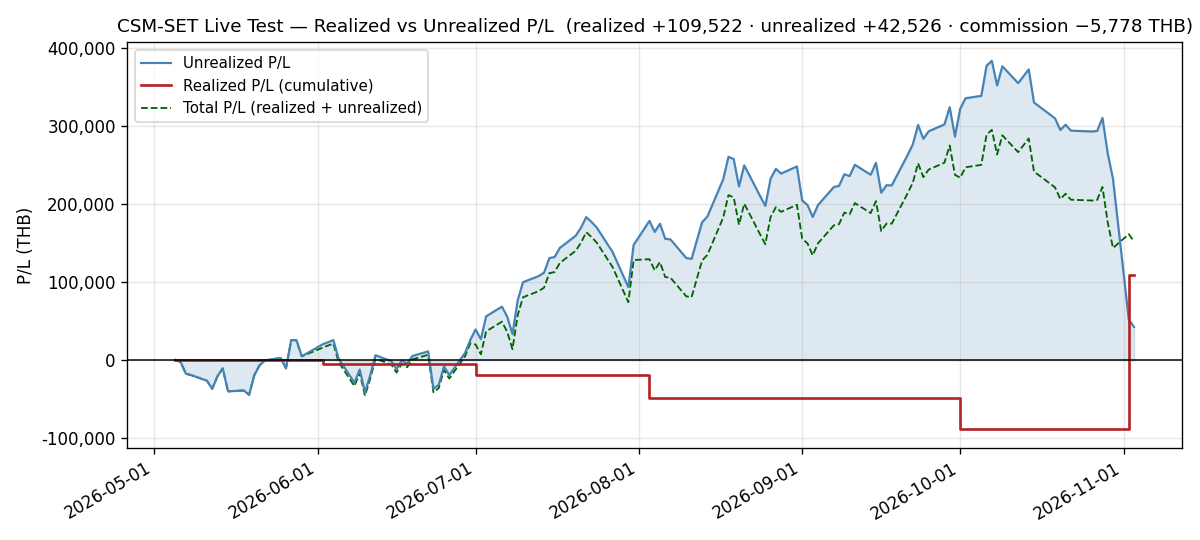
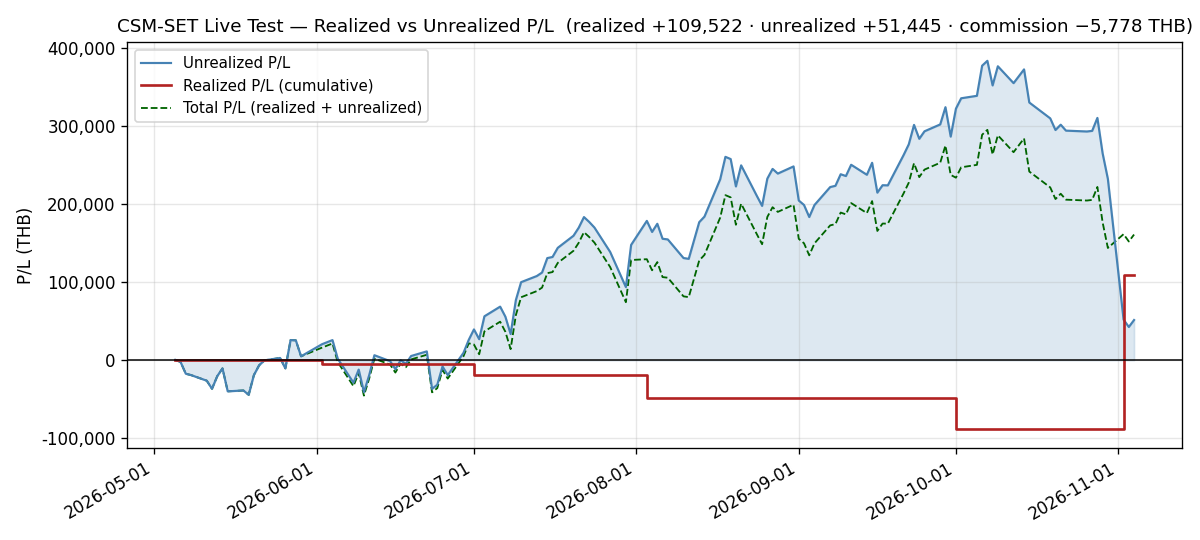
docs(live-test): add the 2026-11-04 daily log — scored session 3 of 41, NAV +0.7020%; the 18:00 refresh hung and the receipt is a same-evening rerun on the settfex 0.26.3 image
NAV 1,279,356.32 (+8,919.00, +0.7020%), +1.3625% on NAV0; equals
daily_performance to the satang. 8 up / 1 down / 1 flat: GUNKUL +7.11%
(best since 2026-06-25); HANA, KCE and SMT recovered +4,775.00 of the
−7,250.00 they lost on 2026-11-03.

- Breaker: TRIPPED, rolling drawdown −9.4891% (from −10.1201%); recovery
  needs > −5% (NAV 1,342,809.70, 63,453.38 away). Regime BEAR, third session;
  the SET rose +0.7431%, ending six falls.
- Refresh: the 18:00 firing hung in its universe retries (ROJNA and SAMART
  never returned; no timeout fired). The operator chose in session to run
  the approved upgrade first; its restart ended the job, and a manual rerun
  on the new image (job 01M6K82G3D7352DVRVFDNEZY4E) completed 211/0 with all
  201 universe symbols. That counts as complete under registration §6 #5.
  Filed as TK-0657.
- Infra (planned maintenance, approved 2026-11-04 ~11:13 BKK): settfex
  0.15.1 -> 0.26.3 (3297317), image db0cb596918c. Gate: Python and the OS list
  unchanged, settfex the only package moved. The first holiday poll on the
  new image did not bank.
- Execution note: CLOSED by the operator's 2026-11-04 ruling (registration
  §12); the 2026-11-03 log's "OPEN" is superseded. Holiday finding routed as
  #461.
- pnl.csv +1 row (124); only the P/L PNG regenerated (102346f1 -> 83a715d8);
  residual 1,610.53 unchanged.

Checker 205/0, recomputing every figure from source (YAML, panel, DB, tvkit,
[…]

diff --git a/docs/live-test/daily/2026-11-04.md b/docs/live-test/daily/2026-11-04.md
@@ -1,0 +1,282 @@
+# Daily Log — 2026-11-04 (Wednesday)
+
+**As of:** 2026-11-04, Asia/Bangkok
+**Phase:** D — Final Evaluation & Documentation
+**Day:** 125 / 38 trading days remaining in 2026
+**Status:** 🟢 **SCORED — session 3 of 41 in the registered window** (`reports/2026-10-27-forward-scoring-pre-registration.md`). **NAV closes at 1,279,356.32 THB, +8,919.00 (+0.7020%) on the session and +1.3625% on NAV₀ = 1,262,159.89.** **8 names rose, 1 fell, 1 was flat**; GUNKUL's +7.11% was its best session since 2026-06-25. 🔴 **The circuit breaker stays TRIPPED**, its rolling drawdown back inside −10% at **−9.4891%** but short of the −5% recovery line. 🔴 **The regime stays BEAR**; the SET rose +0.7431%, ending six falls in a row. 🔴 **The 18:00 refresh hung, and this session's receipt comes from a same-evening rerun** on a new image (Risk Notes 6 and 7). Total Return on NAV is **+14.23%**.
+
+---
+
+## Execution Summary
+
+**No trades today.** The book is the one recorded from the 2026-11-02 rotation (`configs/live_portfolio.yaml` at `2f846b0`), unchanged since. Realized P/L for the session is **0.00 THB** and no commission was paid. **The breaker's safe mode acts only at a month-end evaluation**, so equity at 19.6332% of NAV creates no trade. The next evaluation is **2026-11-30** (registration §3).
+
+---
+
+## Portfolio Snapshot
+
+> 🟢 **Every figure in this section is SCORED-WINDOW data, session 3.** It is `configs/live_portfolio.yaml` at `2f846b0` repriced against the 2026-11-04 bar of `data/processed/prices_latest.parquet`, and it **equals** the `db_gateway.daily_performance` row the same-evening rerun wrote.
+
+`Avg Cost` is the commission-inclusive per-share basis carried from `configs/live_portfolio.yaml` (4-decimal precision); `Cost Basis = shares × Avg Cost`, and `U.PL % = MV / Cost Basis − 1`.
+
+| # | Symbol | Shares | Avg Cost | Last Price | Market Value (THB) | Cost Basis (THB) | U.PL % |
+|---|--------|-------:|---------:|-----------:|--------------------:|-----------------:|-------:|
+| 1 | IRPC | 11,300 | 2.3037 | 2.60 | 29,380.00 | 26,031.81 | +12.86% |
+| 2 | HANA | 600 | 35.8070 | 44.25 | 26,550.00 | 21,484.20 | +23.58% |
+| 3 | GUNKUL | 6,100 | 2.9246 | 4.82 | 29,402.00 | 17,840.06 | +64.81% |
+| 4 | INSET | 8,400 | 3.0848 | 4.50 | 37,800.00 | 25,912.32 | +45.88% |
+| 5 | KCE | 500 | 39.0655 | 70.25 | 35,125.00 | 19,532.75 | +79.83% |
+| 6 | EPG | 3,400 | 5.9099 | 6.00 | 20,400.00 | 20,093.66 | +1.52% |
+| 7 | SMT | 4,000 | 5.8097 | 7.20 | 28,800.00 | 23,238.80 | +23.93% |
+| 8 | CNT | 3,600 | 3.3456 | 3.12 | 11,232.00 | 12,044.16 | −6.74% |
+| 9 | SPRC | 1,200 | 13.8232 | 13.60 | 16,320.00 | 16,587.84 | −1.61% |
+| 10 | SSP | 2,200 | 7.7129 | 7.35 | 16,170.00 | 16,968.38 | −4.71% |
+
+### Portfolio summary
+
+| Metric | Value |
+|--------|-------|
+| Total Cost Basis | 199,733.98 THB |
+| Total Market Value | 251,179.00 THB |
+| Unrealized P/L | +51,445.02 THB (+25.76%) |
+| Realized P/L (today) | 0.00 THB |
+| Realized P/L (cumulative, since inception) | **+109,521.83 THB** |
+| Commission paid (cumulative) | **−5,777.54 THB** |
+
+### Account summary
+
+| Metric | Value |
+|--------|-------|
+| Remaining Cash | 1,028,177.32 THB |
+| Total NAV | 1,279,356.32 THB |
+| Total Return on NAV | +14.23% |
+
+> **Cost-basis note:** Total Cost Basis is **199,733.98 THB**, equal to Σ per-symbol `shares × avg_cost` with a **0.00** delta, unchanged since the rotation.
+>
+> **Above/below cost: 7 up / 3 down.** **EPG** is back above cost (+1.52%). **SPRC** (−1.61%), **SSP** (−4.71%) and **CNT** (−6.74%) are below.
+>
+> **Equity is 19.6332% of NAV** (251,179.00 of 1,279,356.32), up from 19.0690% as the stocks rose. The breaker acts only at the month-end evaluation.
+>
+> **Total P/L check:** realized + unrealized = 109,521.83 + 51,445.02 = **+160,966.85 THB**, up from +152,047.85 by **8,919.00**, exactly the session's NAV change.
+
+---
+
+## Day-over-Day Change (vs Tuesday November 3)
+
+| Symbol | Nov 3 Close | Nov 4 Close | Change | Change % | MV Contribution (THB) |
+|--------|------------:|------------:|-------:|---------:|----------------------:|
+| GUNKUL | 4.50 | 4.82 | +0.32 | +7.11% | +1,952.00 |
+| HANA | 41.75 | 44.25 | +2.50 | +5.99% | +1,500.00 |
+| KCE | 66.50 | 70.25 | +3.75 | +5.64% | +1,875.00 |
+| SMT | 6.85 | 7.20 | +0.35 | +5.11% | +1,400.00 |
+| INSET | 4.30 | 4.50 | +0.20 | +4.65% | +1,680.00 |
+| CNT | 3.00 | 3.12 | +0.12 | +4.00% | +432.00 |
+| EPG | 5.90 | 6.00 | +0.10 | +1.69% | +340.00 |
+| SSP | 7.25 | 7.35 | +0.10 | +1.38% | +220.00 |
+| IRPC | 2.60 | 2.60 | 0.00 | 0.00% | 0.00 |
+| SPRC | 14.00 | 13.60 | -0.40 | -2.86% | -480.00 |
+| **Total** | | | | **+3.68%** | **+8,919.00** |
+
+**Breadth: 8 up, 1 down, 1 flat.**
+
+> The `Change %` on the Total row is the **market-value** change (+8,919.00 / 242,260.00 = +3.6816%), not the NAV change (+8,919.00 / 1,270,437.32 = +0.7020%). They differ by the cash in the NAV denominator, 80.93% of the prior session's NAV in safe mode.
+
+**Most of the 2026-11-03 fall came back.**
+
+- **GUNKUL +7.11% (+1,952.00)** was the largest contribution and its best session since 2026-06-25.
+- **The three ETRON names recovered +4,775.00 of the −7,250.00 they lost on 2026-11-03:**
+  - HANA +5.99%, its best session since 2026-08-17;
+  - KCE +5.64%, its best since 2026-09-29;
+  - SMT +5.11%, its best since 2026-10-06.
+- **SPRC was the only faller** (−2.86%, −480.00), and it is now below cost.
+- **The book rose +0.7020% against a SET that rose +0.7431%**, a **−0.0411pp** difference. It is a same-session arithmetic result for a book that is 80.37% cash, not a performance comparison (Market Context).
+
+---
+
+## Market Context
+
+| Indicator | Value | Source |
+|-----------|-------|--------|
+| SET Index | 1,502.09 | tvkit (TradingView) |
+| SET Open / High / Low | 1,484.00 / 1,504.05 / 1,470.06 | tvkit |
+| SET 200-day SMA | 1,516.2556 | tvkit (TradingView) |
+| Regime Estimate | BEAR | SET −0.93% below SMA200 |
+
+> ⚠ **This is context, NOT a benchmark comparison, and it must not be read as one.**
+>
+> - **Different price bases.** `SET:SET` is a **price index**; the strategy series above is priced on **dividend-adjusted** bars (since `e04a292`, 2026-08-09). The difference is one-sided in the strategy's favour, and it is not small: measured 2026-09-11 over 2024-03-19 → 2026-09-10, the dividend adjustment is worth **+12.09 percentage points** on this universe, roughly **+4.8%/yr**.
+> - **No alpha, excess return or outperformance figure is computed anywhere in this log.** The registration's tracking error against this index is reported in Risk Note 1 as a risk metric (§5).
+
+---
+
+## Regime State
+
+- **Detected regime:** 🔴 **BEAR**, the third session. SET (1,502.09) is **below** SMA200 (1,516.2556) by −0.9342%.
+- **SMA200 position:** 1,516.2556, with the SET closing 14.17 points under it.
+- **3-month return:** −6.01% (window-sensitive — see Notes).
+- **The engine's own `RegimeDetector.detect()` also returns BEAR**: price below SMA200, and a 63-session return of **−7.11%** against its −5% threshold.
+- **No regime-driven action under the registration.** The regime filter is not one of the registered rules (§4). The SET closed −4.02% below its own EMA100 and −0.82% below its EMA200; both are reported and not applied.
+
+**The last six closes read 1,566.10 → 1,544.60 → 1,518.59 → 1,507.20 → 1,491.01 → 1,502.09.**
+
+- **Today:** a **+11.08 point, +0.7431%** session, the first rise after six falls.
+- **Range:** **33.99 points**, against 18.04 the prior session. The index opened at 1,484.00, fell to 1,470.06, and closed 32.03 above its low.
+- **Cushion rose −1.5932% → −0.9342%, a +0.6590pp step.** SMA200 rose to **1,516.2556** (+1.1063).
+- **A BEAR→BULL crossing needs the index 14.17 points higher**, +0.94% at today's SMA200.
+
+The 3-month figure moved from −8.22% to −6.01%, its start bar moving from 2026-07-27 (1,624.47) to 2026-07-30 (1,598.11).
+
+---
+
+## Sector Concentration
+
+Groupings are SET-official, as on 2026-11-02. The book is held at about 20% equity by the breaker's safe mode.
+
+| Sector | Market Value (THB) | % of NAV | % of stocks held | Limit (NAV) | Status |
+|--------|--------------------:|---------:|-----------------:|-------------|--------|
+| Energy & Utilities (ENERG) | 91,272 | 7.1342% | 36.3374% | 35% | OK on NAV |
+| Electronic Components (ETRON) | 90,475 | 7.0719% | 36.0201% | 35% | OK on NAV |
+| ICT | 37,800 | 2.9546% | 15.0490% | 35% | OK |
+| Construction Materials (CONMAT) | 20,400 | 1.5946% | 8.1217% | 35% | OK |
+| Construction Services (CONS) | 11,232 | 0.8779% | 4.4717% | — | below the 5% floor by ruling I5 |
+
+- **ENERG still leads at 7.1342% of NAV** (+0.0831pp). **ETRON rose +0.3262pp to 7.0719%** on its three names' gains. ICT +0.1115pp, CONMAT +0.0156pp, CONS +0.0278pp.
+- **The 35% cap is measured on NAV** (I2), and no sector is near it.
+- **As a share of the stocks held, ENERG is 36.34% and ETRON 36.02%.** The two hold 72.36% of the equity sleeve between them. This is recorded for context; it is not the registered measure.
+- **Every position is below the 5% floor**, between 0.8779% (CNT) and 2.9546% (INSET) of NAV. The breaker governs the band (I5), so **these are not deviations**.
+
+---
+
+## Risk Notes
+
+1. 🟢 **SCORED SESSION 3 OF 41.**
+
+   | Measure (registration §5) | Value |
+   |---|---|
+   | NAV₀ (2026-10-30 close) | 1,262,159.89 |
+   | NAV₂ (2026-11-03 close) | 1,270,437.32 |
+   | NAV₃ (2026-11-04 close) | 1,279,356.32 |
+   | r₃ = NAV₃ / NAV₂ − 1 | **+0.7020%** |
+   | Window return to date | **+1.3625%** |
+   | Max drawdown to date (running peak from NAV₀) | **−0.7349%** (2026-11-03, from the 2026-11-02 peak) |
+   | Annualized volatility (n = 3) | 17.29% |
+   | Sharpe, rf = 2% (n = 3) · rf = 0 | 6.53 · 6.65 |
+   | Tracking error vs `SET:SET` (n = 3) | 18.60% |
+
+   **Three returns carry almost no information**, and annualizing them magnifies that. **No criterion is graded before the window ends** (2026-12-30), and §9's power statement applies to every figure here.
+2. 🟢 **`daily_performance` equals this log.** The row reads **1,279,356.32, cash 1,028,177.32**, and `equity_curve` agrees.
+   - `daily_return` (+0.7020%) equals the day-over-day change to within 3×10⁻¹⁹.
+   - `cumulative_return` reads −0.0381% and `combined_drawdown` −0.7349%: both are measured from `entry_date` 2026-11-02. They are not the scored series (§5).
+3. 🔴 **CIRCUIT BREAKER — TRIPPED, threaded one session (I4).**
+   - **Procedure:** `DrawdownCircuitBreaker` with the recorded parameters (60 sessions, −10% trip, −5% recovery held 21 sessions), called with the state carried from 2026-11-03 (TRIPPED, recovery progress 0) on the published NAV series. It returns **TRIPPED**, rolling drawdown **−9.4891%**, equity fraction **0.20**, no transition.
+   - **The drawdown is back inside −10%**, from −10.1201% on 2026-11-03. **Recovery needs it above −5%**, so the state does not move.
+   - The 2026-10-07 peak (1,413,483.89) is still the window's high.
+   - **Recovery** starts when the rolling drawdown rises above −5%, at NAV **1,342,809.70**. That is **63,453.38 (+4.9598%)** above today's NAV. From a book 19.63% in stocks, it needs the equity sleeve to rise about **25.26%**.
+   - **The 1,064,000 THB line** (5% below `starting_nav`) has NAV **+215,356.32** (16.83%) above it. Under the registration it is a reporting line and carries no action.
+4. 🔴 **REGIME — BEAR, the third session** (Regime State). Under the registration it changes nothing. The transition is recorded in `events/2026-11-02-regime-transition-bull-to-bear.md`.
+5. 🟢 **EXECUTION — CLOSED by operator ruling, 2026-11-04.**
+   - **The ruling:** *"This is a live test in which I place every order myself. Close this matter. The strategy only waits for my price updates."* (The operator's words, translated from Thai.)
+   - **What it settles:**
+     - the operator places every order by hand (limit orders to date);
+     - the trade summaries match the recorded prices;
+     - no deviation is counted.
+   - **Where it is recorded:** a dated amendment to registration §4 *Fills* (registration §12), and `docs/live-test/events/2026-11-03-rotation-orders-placed-as-limit-orders.md`, now CLOSED.
+   - **The 2026-11-03 log's "OPEN with the operator" is superseded by this ruling.** That log stays as published.
+6. 🔴 **REFRESH — the 18:00 firing hung; this session's receipt is a same-evening rerun.**
+   - **The firing started on time** (11:00:00Z) on image `73a1ace1eaee`. The held phase completed `requested=10 recovered=10 still_failing=0` at 11:00:13Z.
+   - **The universe phase stalled on its retries:**
+     - attempt 1 recovered 195 of 201 (11:03:23Z);
+     - attempt 2 recovered 1 of 6 (11:05:29Z);
+     - attempt 3 reported SAWAD and SAK failed (11:08:22Z–11:08:23Z), SC failed after a dropped connection at 11:58:42Z, and ROJNA and SAMART never returned.
+   - **The job never completed.** Nothing logged a timeout for ROJNA or SAMART, and three HTTPS connections stayed open. A run that never ends would also have blocked the 2026-11-05 firing, because the job allows one instance at a time. [[TK-0657]]
+   - **The operator chose, in session, to run the approved upgrade first** (Risk Note 7). Its restart at 19:19:26 BKK ended the stuck job.
+   - **A manual `POST /api/v1/scheduler/run/daily_refresh` then ran on the new image:** job `01M6K82G3D7352DVRVFDNEZY4E`, 19:20:50 → 19:22:52 BKK. All 201 universe symbols were recovered on attempt 1, including the six that had failed at 18:00.
+   - **Under registration §6 #5 the session is complete:** a rerun the same evening counts, and its receipt has `held_symbols_failed = 0` and `index_fetched = true`.
+7. 🟢 **INFRA — settfex 0.15.1 → 0.26.3 and an image rebuild, as planned maintenance.** The operator approved it in session at about 11:13 BKK on 2026-11-04, before it began. The plan was to run it after this log; because of the hang, the operator moved it ahead (Risk Note 6).
+
+   | Step | Result |
+   |---|---|
+   | Preparation (2026-11-04, throwaway worktree, no `.env`) | lock-only change (settfex alone; 196 packages resolved); suite 1334 passed / 35 skipped; mypy strict and ruff clean |
+   | Lock commit | `3297317`, Security CI success |
+   | Rollback tag | `csm-set-csm:rollback-20261104` → `73a1ace1eaee` |
+   | Build (`--pull`, default builder) | image `db0cb596918c`, built 2026-11-04 19:16:09 BKK |
+   | Gate (`--network none`) | Python 3.11.18 unchanged; of 111 packages only settfex moved, 0.15.1 → 0.26.3; the 109-entry OS package list identical; the settfex imports csm-set uses load offline |
+   | Deploy (private overlay) | container `Created` 2026-11-04T12:19:26Z, `StartedAt` 12:19:29Z, healthy; scheduler started with its two jobs; 0 ERROR or CRITICAL lines |
+
+   - **The first holiday poll on the new image ran** (19:20:14–19:20:16 BKK) **but did not bank.** The calendar cache kept its 18:55:15 BKK stamp, and failed polls log only at debug level.
+8. 🟢 **Bands, by ruling.** The 35% cap is measured on NAV, where ENERG leads at 7.1342% (I2). Every position is below the 5% floor (I5). [[TK-0279]]
+9. 🟢 **The uncredited dividend total holds at 8,927.00 THB**: KCE 1,560.00, INSET 2,100.00, MGC 2,208.00, FORTH 795.00, IRPC 2,264.00.
+   - That is **0.70% of NAV** and **5.55%** of the +160,966.85 total P/L.
+   - The registration reports dividends beside each score and does not credit them (§8).
+10. ⚠ **DOC — the `csm-set-daily-log` skill's `daily_return` guidance remains stale.** Its Step 3 still calls the field *"an open defect, not yet fixed in code"*; it was fixed 2026-09-02, and today's row shows it (Risk Note 2). **Thirty-ninth log to carry this.**
+11. 🟢 **The holiday-endpoint finding was routed to `session:pm` on 2026-11-04**, as issue #461. It shows that csm-set's poller reached the endpoint on every logged session through the period recorded as blocked.
+12. **Open decisions — answered for the scored window, by the registration's §8 and §12 and the 2026-10-31 rulings.**
+
+    | Decision | Registered for the window |
+    |---|---|
+    | EMA100 | per holding |
+    | Bands | bind at construction, on the names being traded; the breaker governs them in safe mode (I5) |
+    | Sector cap | measured on NAV, checked on the scaled book (I2) |
+    | Breaker state | advances every trading session (I4) |
+    | Price history | the published NAV, frozen at publication |
+    | Dividends | not credited, reported beside each score |
+    | Fill rule | the operator places every order by hand (amendment of 2026-11-04, registration §12) |
+
+---
+
+## Notes
+
+- **This session's refresh receipt is a same-evening rerun, not the scheduled firing** (Risk Note 6).
+  - Job `01M6K82G3D7352DVRVFDNEZY4E` (`data_refresh`), accepted 2026-11-04T12:20:50Z, finished 12:22:52Z, status `succeeded`.
+  - Receipt: `symbols_fetched=211, failures=0, duration_seconds=119.438, held_symbols_fetched=10, held_symbols_failed=0, retry_attempts_used=0, index_fetched=true`, corroborated by `results/.tmp/last_refresh.json`.
+  - The held phase ended `requested=10 recovered=10 still_failing=0` at 12:20:54Z, and the universe phase `requested=201 recovered=201 still_failing=0` at 12:22:32Z. The gateway accepted the daily report (`201`) at 12:22:52Z.
+  - **The scheduled 18:00 firing left no receipt**, so `last_refresh.json` kept the 2026-11-03 stamp until the rerun.
+  - The cron trigger is unchanged (Monday to Friday, 18:00), so the next firing is 2026-11-05 18:00 +07, the first scheduled one on the new image.
+- **The container now runs image `db0cb596918c`.**
+  - `Created` 2026-11-04T12:19:26Z, `StartedAt` 12:19:29Z, `RestartCount` 0. `FinishedAt` is unset (0001-01-01) because this container has never stopped.
+  - **The previous container (image `73a1ace1eaee`) ran from 2026-11-02T12:24:30Z until the planned recreate.** It ran the 2026-11-03 refresh and the stuck 2026-11-04 firing.
+  - The host has not rebooted since 2026-10-06 (`uptime -s` 2026-10-06 10:46:02).
+- **`SET:THCOM` was fetched with 600 bars again.**
+- **The price panel and the prior log agree on all ten names**, so **nothing was restated**.
+- **The panel's row count fell 906 → 905.** Every row still carries a 09:55 Bangkok stamp, the column count is unchanged at **211**, and no session date is duplicated.
+- **Row-integrity checks pass.** `db_csm_set.equity_curve` holds **exactly one row per trading day at `00:00:00+00`** (124 rows, 124 dates, none off midnight), and today's row equals `daily_performance.total_value`.
+- **`configs/live_portfolio.yaml` is unchanged** since `2f846b0`.
+- **The P/L identity holds.** `realized_cum + unrealized − (NAV − starting_nav)` = 109,521.83 + 51,445.02 − 159,356.32 = **1,610.53 THB**, unchanged.
+- **Every figure was verified rather than asserted.**
+  - Σ position market value equals Total Market Value exactly (251,179.00).
+  - **Total NAV (1,279,356.32) equals `db_gateway.daily_performance.total_value` to the satang**, and cash equals the YAML's 1,028,177.32.
+  - The contributions sum to the session's NAV change (+8,919.00) exactly.
+  - The sector table sums to Total Market Value exactly.
+  - Σ per-symbol cost basis matches Total Cost Basis with a **0.00** delta, and the position count is 10.
+  - All money arithmetic used `Decimal` with explicit half-up rounding, and so did SMA200.
+- **Realized P/L and commission ledger, unchanged.**
+  - Realized cumulative **+109,521.83 THB**: 2026-06-02 −4,351.87 · 2026-07-01 −14,964.06 · 2026-08-03 −29,775.45 · 2026-10-01 −39,365.29 · 2026-11-02 +197,978.50.
+  - Commission cumulative **−5,777.54 THB**: 05-05 1,611.15 · 06-02 984.44 · 06-04/05 169.09 · 07-01 287.83 · 08-03 682.65 · 10-01 201.81 · 11-02 1,840.57.
+- **Capital events to date, unchanged.** `starting_nav` 1,120,000 after 1,000,000 → 1,100,000 (2026-06-04, +100,000) → 1,120,000 (2026-08-03, +20,000).
+- **Every superlative was computed, and each names its window.**
+
+  | Claim | Window | Source |
+  |---|---|---|
+  | GUNKUL, HANA, KCE and SMT: best session since the dates named | the whole panel, which starts 2024-05-15 for these names | the panel |
+  | The breaker's drawdown path | the published NAV series | the 2026-11-03 log; the procedure |
+  | Index figures, the cushion, the end of the six falls | bars fetched back to 2024-09-11 | tvkit |
+- **3-month return figure is window-sensitive.** −6.01% is measured over the trailing 66 bars from today's close (start bar 2026-07-30, 1,598.11). The engine's 63-session figure is −7.11%. The regime estimate uses the SMA200 only.
+- **Follow-ups for the next session (Thursday 2026-11-05 18:00 +07).**
+
+  | | Item | Level |
+  |---|---|---|
+  | (a) | the breaker state, threaded once | TRIPPED; rolling drawdown −9.4891%; recovery above 1,342,809.70 |
+  | (b) | the regime | BEAR; 14.17 points to a BULL crossing |
+  | (c) | the first scheduled refresh on image `db0cb596918c` | record its receipt and container identity |
+  | (d) | whether the holiday poll banks on settfex 0.26.3 | the cache stamp |
+  | (e) | the hung firing | [[TK-0657]] |
+
+  **The four follow-ups from 2026-11-03 are closed above:**
+  - (a) Risk Note 3; (b) Risk Note 4;
+  - (c) the fill-rule decision, closed in Risk Note 5;
+  - (d) the settfex 0.26.3 upgrade, done in Risk Note 7.
+- **Calendar.** 2026-11-04 was a trading session.
+  - The rerun read the banked SET holiday calendar (`results/.tmp/set_holidays.json`) at `captured_at 2026-11-04T11:55:15Z`, written by the 18:55:15 BKK poll on the previous container.
+  - The banked calendar lists the remaining 2026 closures as **2026-12-07**, **2026-12-10** and **2026-12-31**. The next session is **2026-11-05**.
+  - No trading hours are stated anywhere in this log.
+- Data fetched via tvkit (TradingView, free tier): all 10 held-symbol prices from the same-evening rerun of the refresh; SET Index context anchored explicitly to the 2026-11-04 bar. ⚠ **The vendor back-adjusts a symbol's entire history on an ex-dividend date**, so any prior-session price quoted here is the vendor's *current* view of that session and not necessarily what was published at the time.

diff --git a/docs/live-test/graphs/README.md b/docs/live-test/graphs/README.md
@@ -1,9 +1,9 @@
 # Live-Test Charts — how these are generated
 
-_🟢 **The three NAV charts are on the October month-end, 2026-10-30; the P/L chart is newer, 2026-11-03.** The three **NAV** charts
+_🟢 **The three NAV charts are on the October month-end, 2026-10-30; the P/L chart is newer, 2026-11-04.** The three **NAV** charts
 (`equity_curve`, `drawdown`, `monthly_returns`) were regenerated on 2026-10-30 from `nav_actual.csv` /
 `nav_twr.csv` extended to **121 points** (2026-05-04 → 2026-10-30). `pnl_realized_unrealized.png` was
-regenerated on 2026-11-03 from `pnl.csv` (**123 rows**, through 2026-11-03; its newest realized step is the 2026-11-02 rotation's). ⚠ **The September rows of the two NAV CSVs
+regenerated on 2026-11-04 from `pnl.csv` (**124 rows**, through 2026-11-04; its newest realized step is the 2026-11-02 rotation's). ⚠ **The September rows of the two NAV CSVs
 come from `db_gateway.daily_performance`, not `equity_curve`** — IRPC's 2026-09-09 restatement rewrote the
 `equity_curve` rows it would otherwise have supplied; see the 2026-09-30 History entry. **The October rows
 are the published daily-log NAVs**, which equal `equity_curve` on every October session; `daily_performance`
@@ -262,14 +262,24 @@ restatement has rewritten `equity_curve` rows inside the month being appended, *
 | `monthly_returns.png` | May **+0.33%** · Jun **+1.44%** · Jul **+9.53%** · Aug **+5.68%** · Sep **+2.90%** · Oct **−6.90%** (no flow in September or October, so the TWR and actual-NAV figures agree for both) |
 | **August bar is the TWR figure** | **+5.68%**, NOT the reported +7.40% and NOT the ex-injection +5.77%. Feeding `nav_actual.csv` instead reproduces the documented failure mode — **Jun +11.62%** and Aug +7.40% |
 | June bar vs the June review | must read **+1.44%**, not +11.62% |
-| `pnl_realized_unrealized.png` *(the 2026-11-03 PNG, through 11-03)* | realized **+109,521.83** · unrealized **+42,526.02** · commission **−5,777.54** THB; the realized line is **flat except at 2026-06-02, 2026-07-01, 2026-08-03, 2026-10-01 and 2026-11-02** — **five** steps, the last one upward. *(The 2026-11-02 PNG read the same realized and commission with unrealized +51,932.02 at 122 points; the 2026-10-30 PNG read realized −88,456.67 · unrealized +232,227.03 · commission −3,936.97 at 121 points, with four steps; the 2026-10-29 PNG read the same realized and commission with unrealized +264,919.03 at 120 points; the 2026-10-28 PNG read the same realized and commission with unrealized +310,400.03 at 119 points; the 2026-10-27 PNG read the same realized and commission with unrealized +293,787.03 at 118 points; the 2026-10-26 PNG read the same realized and commission with unrealized +293,003.03 at 117 points; the 2026-10-22 PNG read the same realized and commission with unrealized +294,101.03 at 116 points; the 2026-10-21 PNG read the same realized and commission with unrealized +301,696.03 at 115 points; the 2026-10-20 PNG read the same realized and commission with unrealized +294,904.03 at 114 points; the 2026-10-19 PNG read the same realized and commission with unrealized +309,815.03 at 113 points; the 2026-10-15 PNG read the same realized and commission with unrealized +330,143.03 at 112 points; the 2026-10-14 PNG read the same realized and commission with unrealized +372,572.03 at 111 points; the 2026-10-12 PNG read the same realized and commission with unrealized +354,949.03 at 110 points; the 2026-10-09 PNG +376,567.03 at 109; the 2026-10-08 PNG +352,021.03 at 108; the 2026-10-07 PNG +383,551.03 at 107; the 2026-10-06 PNG +377,303.03 at 106; the 2026-10-05 PNG +338,709.03 at 105; the 2026-10-02 PNG +335,559.03 at 104; the 2026-10-01 PNG +322,278.03 at 103.)* *(The 2026-08-31 PNG read:* realized **−49,091.38** · unrealized **+248,232.35** · commission **−3,735.16** THB; the realized line is **flat except at 2026-06-02, 2026-07-01 and 2026-08-03** — **three** steps.) *(The superseded 2026-08-28 render showed −49,091.38 / +239,078.35 at 79 points; the 2026-08-27 one showed −49,091.38 / +245,069.35 at 78 points; the 2026-08-26 one showed −49,091.38 / +232,605.35 at 77 points; the 2026-08-25 one showed −49,091.38 / +197,671.35 at 76 points; the 2026-08-24 one showed −49,091.38 / +210,441.35 at 75 points; the 2026-08-21 one showed −49,091.38 / +249,619.35 at 74 points; the 2026-08-20 one showed −49,091.38 / +222,599.35 at 73 points; the 2026-08-19 one showed −49,091.38 / +257,693.35 at 72 points; the 2026-08-18 one showed −49,091.38 / +260,527.35 at 71 points; the 2026-08-17 one showed −49,091.38 / +231,713.35 at 70 points; the 2026-08-14 one −49,091.38 / +183,951.35 at 69 points; the 2026-08-12 one −49,091.38 / +129,844.35 at 67 points; the 2026-08-01 one −19,315.93 / +147,665.89 / −3,052.51 and only two steps.)* |
-| `pnl.csv` last row *(the CSV and the P/L PNG are in sync — see the header)* | 2026-11-03: realized **+109,521.83** · unrealized **+42,526.02** · total **+152,047.85** · commission **5,777.54** THB; **123 rows**, matching `equity_curve`'s 123 **in row count only** *(↻ this row read 2026-08-31 / 80 rows until 2026-10-02: the September daily runs extended the CSV without updating it; it is updated with each session's History entry since)* — the values diverge historically after the KCE, INSET, MGC *and* FORTH restatements (see the header caveat) |
+| `pnl_realized_unrealized.png` *(the 2026-11-04 PNG, through 11-04)* | realized **+109,521.83** · unrealized **+51,445.02** · commission **−5,777.54** THB; the realized line is **flat except at 2026-06-02, 2026-07-01, 2026-08-03, 2026-10-01 and 2026-11-02** — **five** steps, the last one upward. *(The 2026-11-03 PNG read the same realized and commission with unrealized +42,526.02 at 123 points; the 2026-11-02 PNG read the same realized and commission with unrealized +51,932.02 at 122 points; the 2026-10-30 PNG read realized −88,456.67 · unrealized +232,227.03 · commission −3,936.97 at 121 points, with four steps; the 2026-10-29 PNG read the same realized and commission with unrealized +264,919.03 at 120 points; the 2026-10-28 PNG read the same realized and commission with unrealized +310,400.03 at 119 points; the 2026-10-27 PNG read the same realized and commission with unrealized +293,787.03 at 118 points; the 2026-10-26 PNG read the same realized and commission with unrealized +293,003.03 at 117 points; the 2026-10-22 PNG read the same realized and commission with unrealized +294,101.03 at 116 points; the 2026-10-21 PNG read the same realized and commission with unrealized +301,696.03 at 115 points; the 2026-10-20 PNG read the same realized and commission with unrealized +294,904.03 at 114 points; the 2026-10-19 PNG read the same realized and commission with unrealized +309,815.03 at 113 points; the 2026-10-15 PNG read the same realized and commission with unrealized +330,143.03 at 112 points; the 2026-10-14 PNG read the same realized and commission with unrealized +372,572.03 at 111 points; the 2026-10-12 PNG read the same realized and commission with unrealized +354,949.03 at 110 points; the 2026-10-09 PNG +376,567.03 at 109; the 2026-10-08 PNG +352,021.03 at 108; the 2026-10-07 PNG +383,551.03 at 107; the 2026-10-06 PNG +377,303.03 at 106; the 2026-10-05 PNG +338,709.03 at 105; the 2026-10-02 PNG +335,559.03 at 104; the 2026-10-01 PNG +322,278.03 at 103.)* *(The 2026-08-31 PNG read:* realized **−49,091.38** · unrealized **+248,232.35** · commission **−3,735.16** THB; the realized line is **flat except at 2026-06-02, 2026-07-01 and 2026-08-03** — **three** steps.) *(The superseded 2026-08-28 render showed −49,091.38 / +239,078.35 at 79 points; the 2026-08-27 one showed −49,091.38 / +245,069.35 at 78 points; the 2026-08-26 one showed −49,091.38 / +232,605.35 at 77 points; the 2026-08-25 one showed −49,091.38 / +197,671.35 at 76 points; the 2026-08-24 one showed −49,091.38 / +210,441.35 at 75 points; the 2026-08-21 one showed −49,091.38 / +249,619.35 at 74 points; the 2026-08-20 one showed −49,091.38 / +222,599.35 at 73 points; the 2026-08-19 one showed −49,091.38 / +257,693.35 at 72 points; the 2026-08-18 one showed −49,091.38 / +260,527.35 at 71 points; the 2026-08-17 one showed −49,091.38 / +231,713.35 at 70 points; the 2026-08-14 one −49,091.38 / +183,951.35 at 69 points; the 2026-08-12 one −49,091.38 / +129,844.35 at 67 points; the 2026-08-01 one −19,315.93 / +147,665.89 / −3,052.51 and only two steps.)* |
+| `pnl.csv` last row *(the CSV and the P/L PNG are in sync — see the header)* | 2026-11-04: realized **+109,521.83** · unrealized **+51,445.02** · total **+160,966.85** · commission **5,777.54** THB; **124 rows**, matching `equity_curve`'s 124 **in row count only** *(↻ this row read 2026-08-31 / 80 rows until 2026-10-02: the September daily runs extended the CSV without updating it; it is updated with each session's History entry since)* — the values diverge historically after the KCE, INSET, MGC *and* FORTH restatements (see the header caveat) |
 | The August regeneration *(**done** 2026-08-12, **superseded** by the 2026-08-14, 2026-08-17, 2026-08-18, 2026-08-19, 2026-08-20, 2026-08-21, 2026-08-24, 2026-08-25, 2026-08-26, 2026-08-27, 2026-08-28 and then the 2026-08-31 render)* | ✅ satisfied — the current PNG title reads `realized -49,091 · unrealized +248,232 · commission −3,735 THB`, the series ends 2026-08-31 at 80 points, and the realized line steps **three** times. Verified by eye against the rendered image, not only from the generator's stdout |
 | Only ONE PNG may change on a P/L regeneration | ✅ `gen_pnl_chart.py:118` writes `pnl_realized_unrealized.png` and nothing else. Checksum the four PNGs before and after: the three NAV charts must be **byte-identical** and keep their 2026-08-01 mtimes. Verified 2026-08-14, 2026-08-17, 2026-08-18, 2026-08-19, 2026-08-20, 2026-08-21, 2026-08-24, 2026-08-25, 2026-08-26, 2026-08-27, 2026-08-28 and 2026-08-31 — only the P/L PNG's hash moved on all twelve |
 | P/L reconciliation | `realized_cum + unrealized − (NAV − capital)` = **1,610.53** from 2026-11-02 (**1,610.47** for 2026-10-01 → 2026-10-30, **1,610.27** for 2026-08-03 → 2026-09-30, **1,609.61** for 2026-07-01 → 2026-07-31; every era since 2026-05-05 is listed in §Reconciliation residual, corrected 2026-10-31), and constant *within* each era; the 2026-11-02 step is **+0.06** (SPRC +0.02, SSP −0.08 against their all-in costs) and the 2026-10-01 step **+0.20**, CNT's: 4-dp `avg_cost` rounding both times. A *drifting* residual means a realisation was missed; the one-time **+0.66** step at the rotation is 4-dp `avg_cost` rounding — see above |
 | `commission_cum` | rises **only on the 8 fill dates** (05-05, 06-02, 06-04, 06-05, 07-01, 08-03, 10-01, **11-02**); a rise on any other day means a non-trading day was credited with a fill |
 
 ## History
+
+**`pnl.csv` extended through 2026-11-04** on 2026-11-04, appending the **2026-11-04** row — scored session 3,
+a no-trade session whose refresh receipt is a same-evening rerun (the 18:00 firing hung; see that day's log).
+`realized_cum` (+109,521.83) and `commission_cum` (5,777.54) are unchanged, so the realized line takes no
+step. Unrealized rises +42,526.02 → **+51,445.02** and `total_pl` +152,047.85 → **+160,966.85** (+8,919.00,
+exactly the session's NAV change). The reconciliation residual holds at **1,610.53**.
+**`pnl_realized_unrealized.png` was regenerated in the same session**, so the two artifacts end together at
+**124 points**; the four PNGs were checksummed (md5) before and after, and the three NAV charts are
+byte-identical (`drawdown` 7df00897…, `equity_curve` 5ab54261…, `monthly_returns` 89088737…), with only the
+P/L chart's hash moving (102346f1… → **83a715d8…**). Checked against the rendered image.
 
 **`pnl.csv` extended through 2026-11-03** on 2026-11-03, appending the **2026-11-03** row — scored session 2,
 a no-trade session. `realized_cum` (+109,521.83) and `commission_cum` (5,777.54) are unchanged, so the realized
